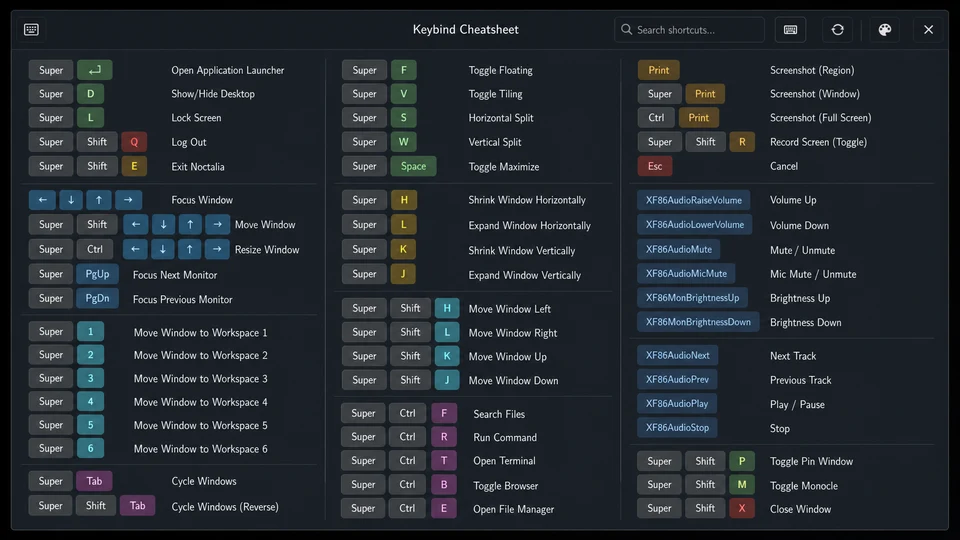
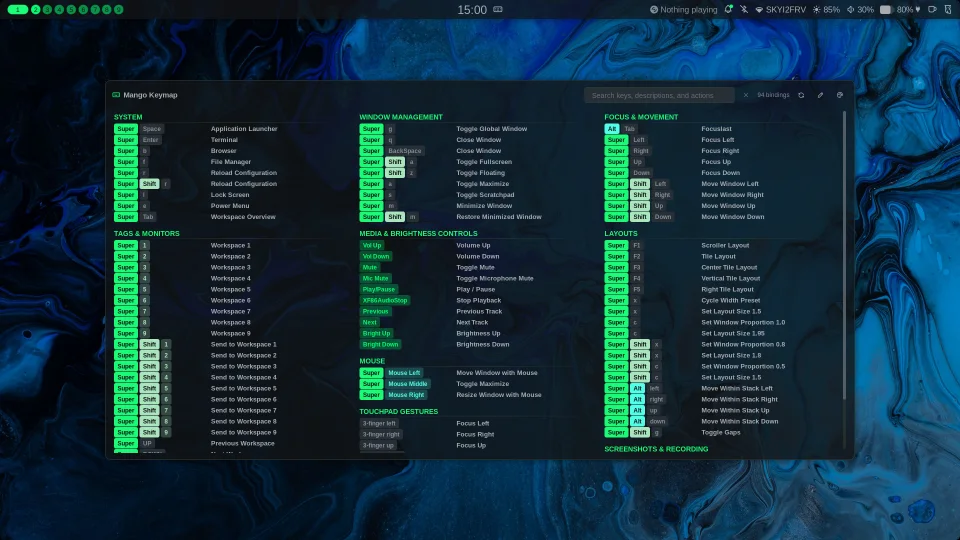
docs: refresh plugin screenshots

diff --git a/README.md b/README.md
@@ -9,6 +9,24 @@ For installation, configuration, compositor keybinds, and IPC commands, see
 Hyprland and Niri users can help validate real compositor behavior using the
 [`TESTING.md`](TESTING.md) checklist before the community-store submission.
 
+## Screenshots
+
+### Keymap
+
+![Categorized Mango keymap](screenshots/overview.webp)
+
+### Search
+
+![Filtered keybind search](screenshots/search.webp)
+
+### Edit mode
+
+![Description and visibility editing](screenshots/edit-mode.webp)
+
+### Settings
+
+![Compositor and layout settings](screenshots/settings.webp)
+
 ## Local development
 
 Add this checkout as a path source, enable the plugin, then add its `keybinds`

diff --git a/keybind-cheatsheet/README.md b/keybind-cheatsheet/README.md
@@ -4,6 +4,8 @@ Keybind Cheatsheet opens a searchable Noctalia panel containing the active
 Mango, Hyprland, or Niri shortcuts. It follows split configuration files,
 formats common hardware keys, and keeps custom descriptions and hidden rows.
 
+![Keybind Cheatsheet panel](thumbnail.webp)
+
 ## Plugin
 
 | Field | Value |